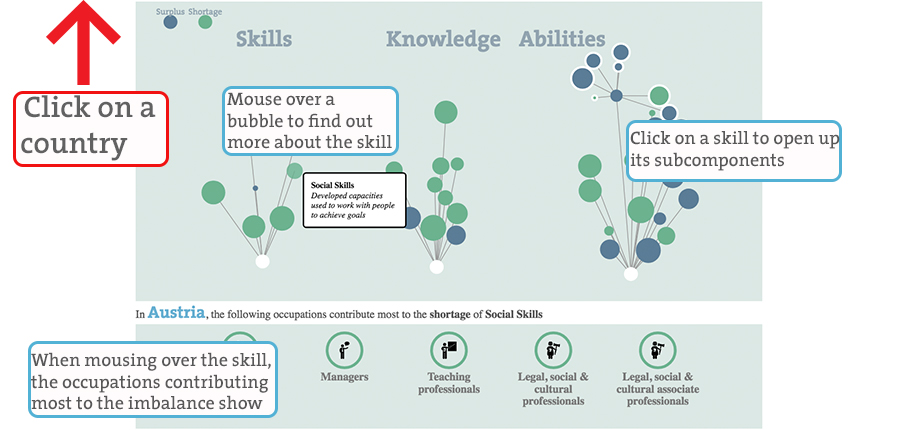
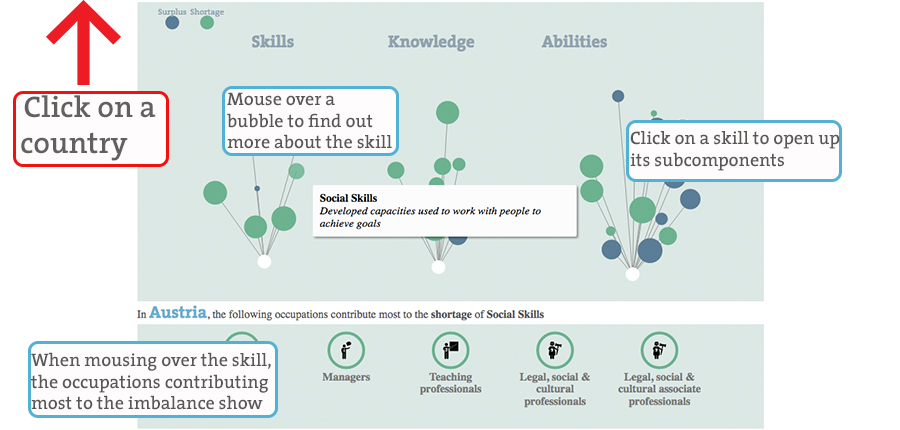
changed picture removed help

diff --git a/js/transitionAbilitiesChart.js b/js/transitionAbilitiesChart.js
@@ -37,8 +37,8 @@ function transitionAbilitiesChart(selector,data){
 	    	d3.select(this)
 				.attr("opacity",0.5);
 
-			var xPosition = 2*width/3;
-			var yPosition = d3.event.pageY-15;
+			var xPosition = d3.event.pageX-60;
+			var yPosition = d3.event.pageY+130;
 
 			if (yPosition>window.innerHeight-200)
 				yPosition=yPosition-100;

diff --git a/js/setup.js b/js/setup.js
@@ -141,6 +141,14 @@ function initialiseAll(isoCode) {
   			.style("visibility","hidden");
   	}
 
+	if(isoCode=="PIC"){
+  		d3.select("#help")
+  			.style("visibility","hidden");
+  	}else{
+  		d3.select("#help")
+  			.style("visibility","visible");
+  	}
+
 	linkNetwork=[];
 	data_usage=[];	
 	//Initialisation
